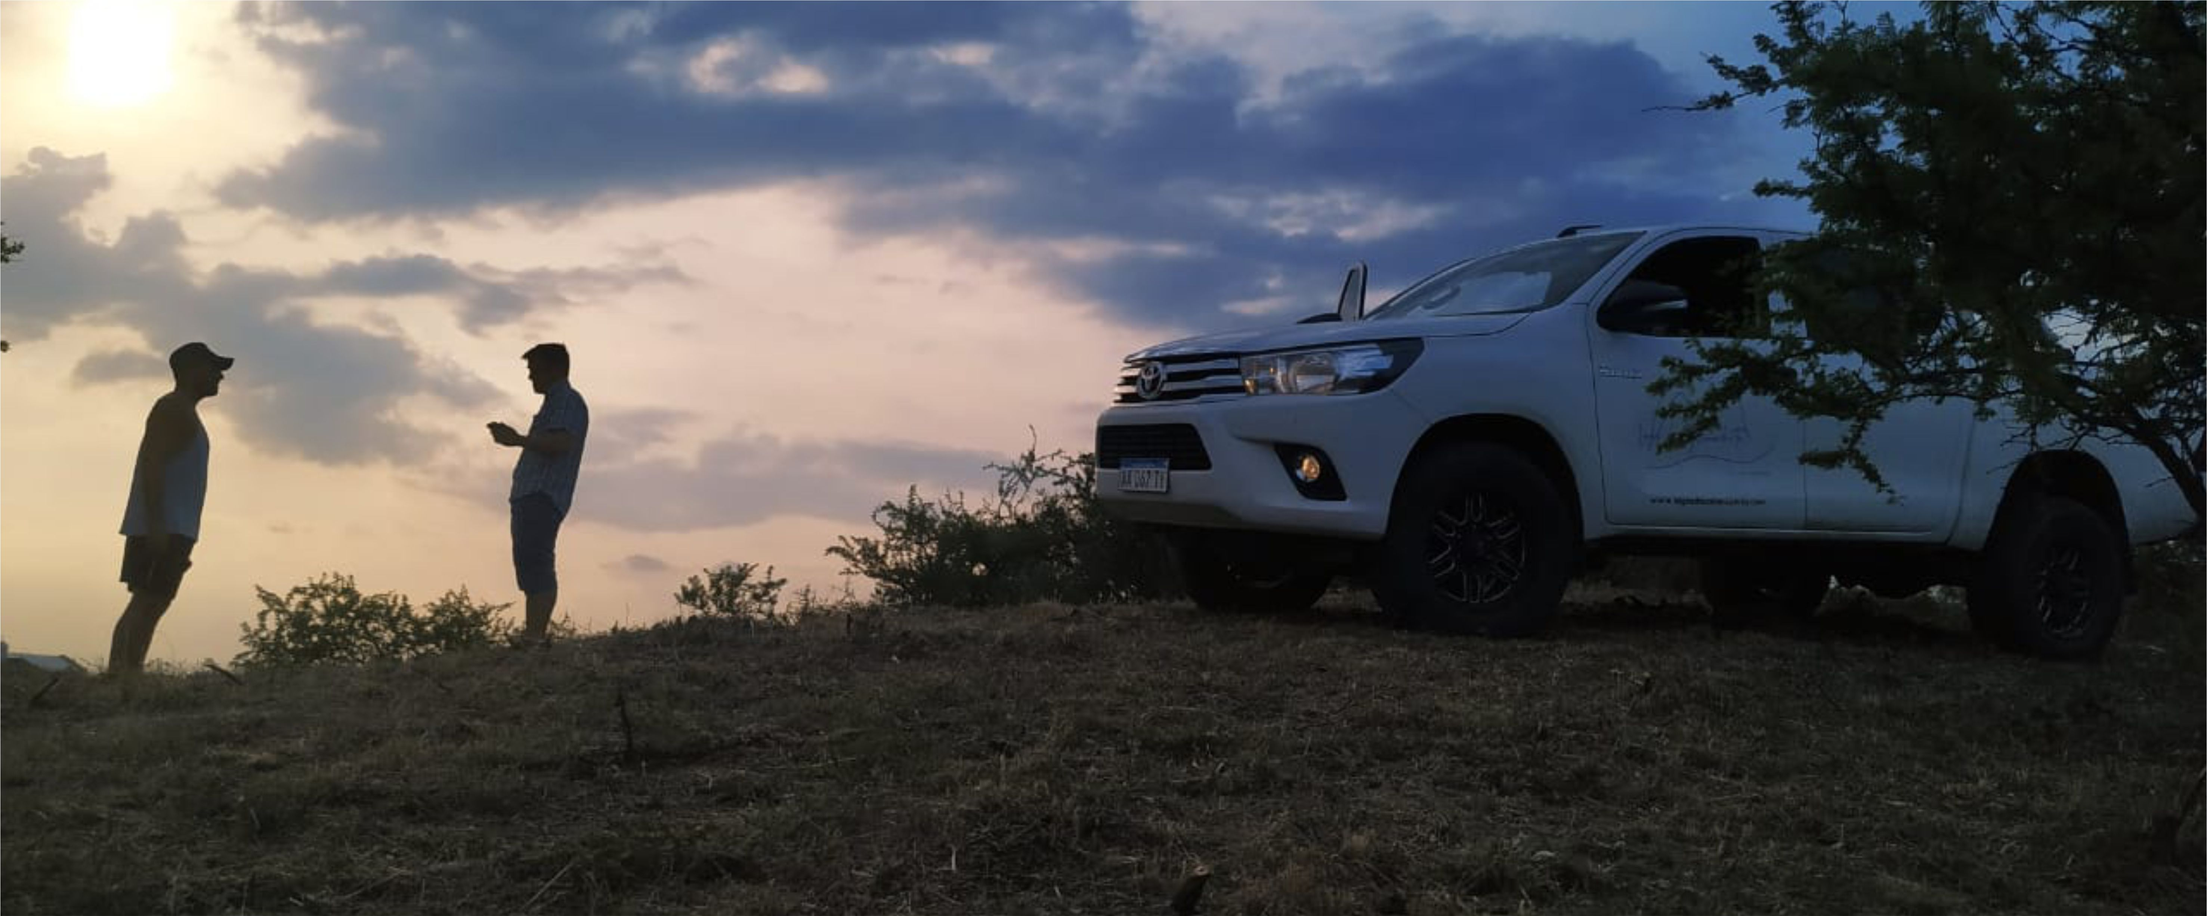
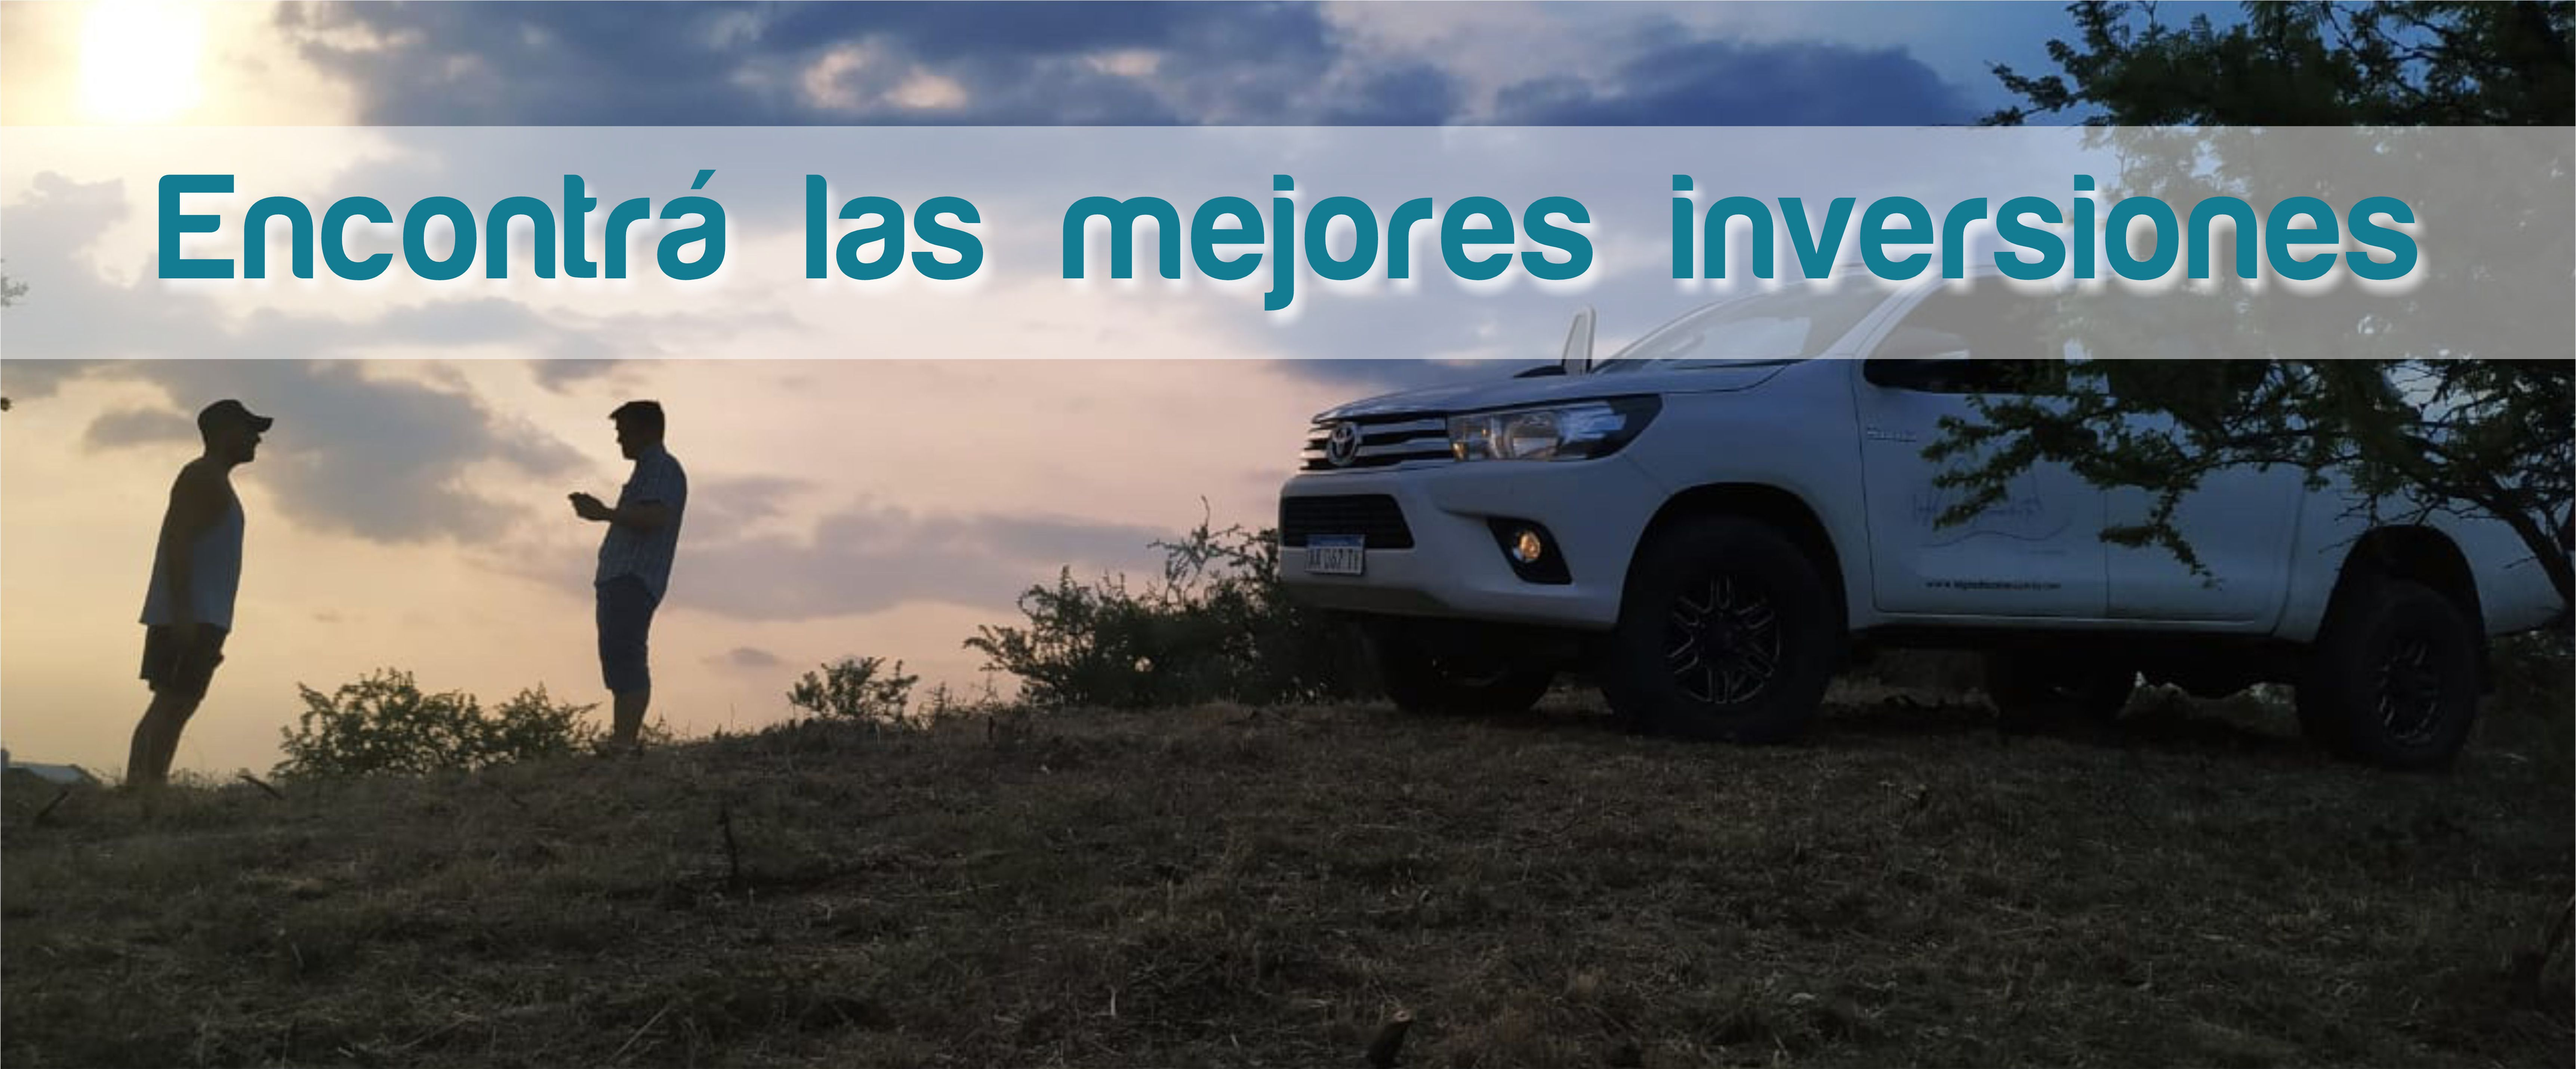
add hashed password and new pictures

Changed region(s): [[0.0, 0.0, 1.0, 1.0]]

diff --git a/rematar-frontend/src/components/MiProfile.js b/rematar-frontend/src/components/MiProfile.js
@@ -44,12 +44,16 @@ class MiProfile extends React.Component {
             }
         ).then(data => {return data.json()}
         ).then(res => {
-            if (res.code === 200)
+            if (res.code === 200){
                 this.setState({...res['data']['user']})
+            }
+            else{
+                this.setState({new_user: true})
+            }
             }
         ).catch(e => {
                 console.log("No user:", e);
-                this.setState({new_user: true})
+
             }
         )
     }
@@ -59,7 +63,7 @@ class MiProfile extends React.Component {
         setTimeout((e) =>{
             document.getElementById("button").disabled = false;
         }, 3000)
-        //event.preventDefault();  No se que hace por eso lo comente
+
         event.target.className += ' was-validated';
         // enviamos los datos al backend
         event.preventDefault()
@@ -67,6 +71,7 @@ class MiProfile extends React.Component {
             config["api"]['BACKEND_ENDPOINT']+'/api/mi_perfil',
             {
                 headers: {
+                    mode: 'cors',
                     Accept: 'application/json',
                     authorization: this.Auth.getToken(),
                 },
@@ -77,7 +82,6 @@ class MiProfile extends React.Component {
                 })
             }
         ).then(data => {
-            alert(data.status)
             if (data.status === 200){
                 this.setState({modal_ok: true})
                 this.toggle()

diff --git a/rematar-frontend/src/components/ToRegister.js b/rematar-frontend/src/components/ToRegister.js
@@ -55,12 +55,6 @@ class ToRegister extends React.Component {
         });
     }
   submitHandler = event => {
-      var captcha = document.getElementById("captcha").val();
-
-      if(captcha.length === 0) {
-          alert('Debe hacer click en reCAPTCHA antes de registrarse.')
-          return false
-      }
 
       document.getElementById("button").disabled = true;
       setTimeout((e) =>{
@@ -218,8 +212,7 @@ class ToRegister extends React.Component {
                                    Debe aceptar antes de enviar.
                                 </div>
                              </div>
-                              <div id="captcha" className="my-3 g-recaptcha"  data-sitekey="6Lc0sawZAAAAAIv-LTi4MuRGE9SlXC4DLLRIXRsu"/>
-                             <div className="text-center my-4">
+                              <div className="text-center my-4">
                                 <MDBBtn className="ml-4 " color='info' type='submit'  id='button' disabled={this.validate_pass()}>
                                     <Row>
                                         <img src ={logos} style={{width:"50px",height:"37px"}}/>

diff --git a/rematar-frontend/src/components/HomePageComponent.js b/rematar-frontend/src/components/HomePageComponent.js
@@ -125,7 +125,7 @@ class HomePage extends Component {
                                     <Row className='mb-5 h-50'>
                                         <Container className="my-4">
                                             <Row className="mx-auto d-sm-block">
-                                                <h1 className="w-100  text-dark title">Encontrá las mejores inversiones</h1>
+                                                {/*<h1 className="w-100  text-dark title">Encontrá las mejores inversiones</h1>*/}
                                             </Row>
                                         </Container>
                                     </Row>

diff --git a/rematar-frontend/public/index.html b/rematar-frontend/public/index.html
@@ -7,7 +7,6 @@
     <meta name="viewport" content="width=device-width, initial-scale=1.0, maximum-scale=1.0, " />
     <meta name="author" content="Cristian Contrera , Kevin Bourdal">
     <meta name="theme-color" content="#000000" />
-    <script src="https://www.google.com/recaptcha/api.js?hl=es" async defer></script>
     <meta name="viewport" content="width=device-width,initial-scale=1">
     <meta NAME="DESCRIPTION" CONTENT="Web para la subastas de distintos artículos, tales como : vehículos, muebles, inmuebles  y muchas cosas mas">
     <meta NAME="KEYWORDS" CONTENT="subastas,remates,ventas,autos,motos,terrenos,calamuchita">

diff --git a/rematar-backend/src/views.py b/rematar-backend/src/views.py
@@ -39,6 +39,8 @@ from utils import (
     validate_json_payload,
     send_email,
     check_minuto_ley,
+    hashed_password,
+    comparate_hashed,
 )
 
 
@@ -123,7 +125,7 @@ class AccountView(BaseView):
             try:
                 account_data = self.account_schema.load({'email': json_data['email'],
                                                          'username': json_data['username'],
-                                                         'password': json_data['password'],
+                                                         'password': hashed_password(json_data['password']),
                                                          'role_id': 3,  # common user
                                                          })
             except marshmallow.exceptions.ValidationError as errors:
@@ -157,7 +159,7 @@ class AccountView(BaseView):
                 return response(400, str(errors))
 
             if account is not None:
-                account.password = json_data['password']
+                account.password = hashed_password(json_data['password'])
                 error = account.save()
                 if not error:
                     return response(200, data={'id': account.id})
@@ -175,9 +177,9 @@ class AccountView(BaseView):
 
             if account is not None:
                 password = gen_token({'now': dt.now().second})[:16]
-                account.password = password
+                account.password = hashed_password(password)
 
-                msg = message_recovery_password.format(account.password)
+                msg = message_recovery_password.format(password)
                 send_email(json_data['email'], msg)
 
                 error = account.save()
@@ -346,7 +348,7 @@ class LoginView(BaseView):
                 account = AccountModel.query.filter_by(validated=True).filter_by(email=json_data['email']).first()
                 if account is not None:
                     role = RoleModel.query.filter_by(id=account.role_id).first()
-                    if account.password == json_data['password']:
+                    if comparate_hashed(json_data['password'], account.password):
                         user = UserModel.query.filter_by(account_id=account.id).first()  # deberia existir
                         token = gen_token({'email': account.email,
                                            'username': account.username})

diff --git a/rematar-backend/src/utils.py b/rematar-backend/src/utils.py
@@ -3,8 +3,7 @@ from datetime import datetime as dt, date, timedelta
 import smtplib
 from email.mime.multipart import MIMEMultipart
 from email.mime.text import MIMEText
-
-
+import bcrypt
 
 STATUS = {200: 'Success',
           201: 'Created',
@@ -94,7 +93,6 @@ def validate_token(token):
 
 
 def send_email(email_dest, message, subject='Mail enviado desde Subastas en Web, No responder.'):
-
     msg = MIMEMultipart("alternative")
     msg["Subject"] = subject
     part1 = MIMEText(message.encode('utf-8'), "html", "utf-8")
@@ -125,4 +123,15 @@ def check_minuto_ley(auction, new_offer):
     return False
 
 
+def hashed_password(password):
+    password_hash = password
+    hashed = bcrypt.hashpw(password_hash.encode(), bcrypt.gensalt())
+    return hashed.decode()
 
+
+def comparate_hashed(password, hashed):
+    if bcrypt.checkpw(password.encode(), hashed.encode()):
+        return True
+    else:
+        print("Las contraseñas no son iguales")
+        return False
